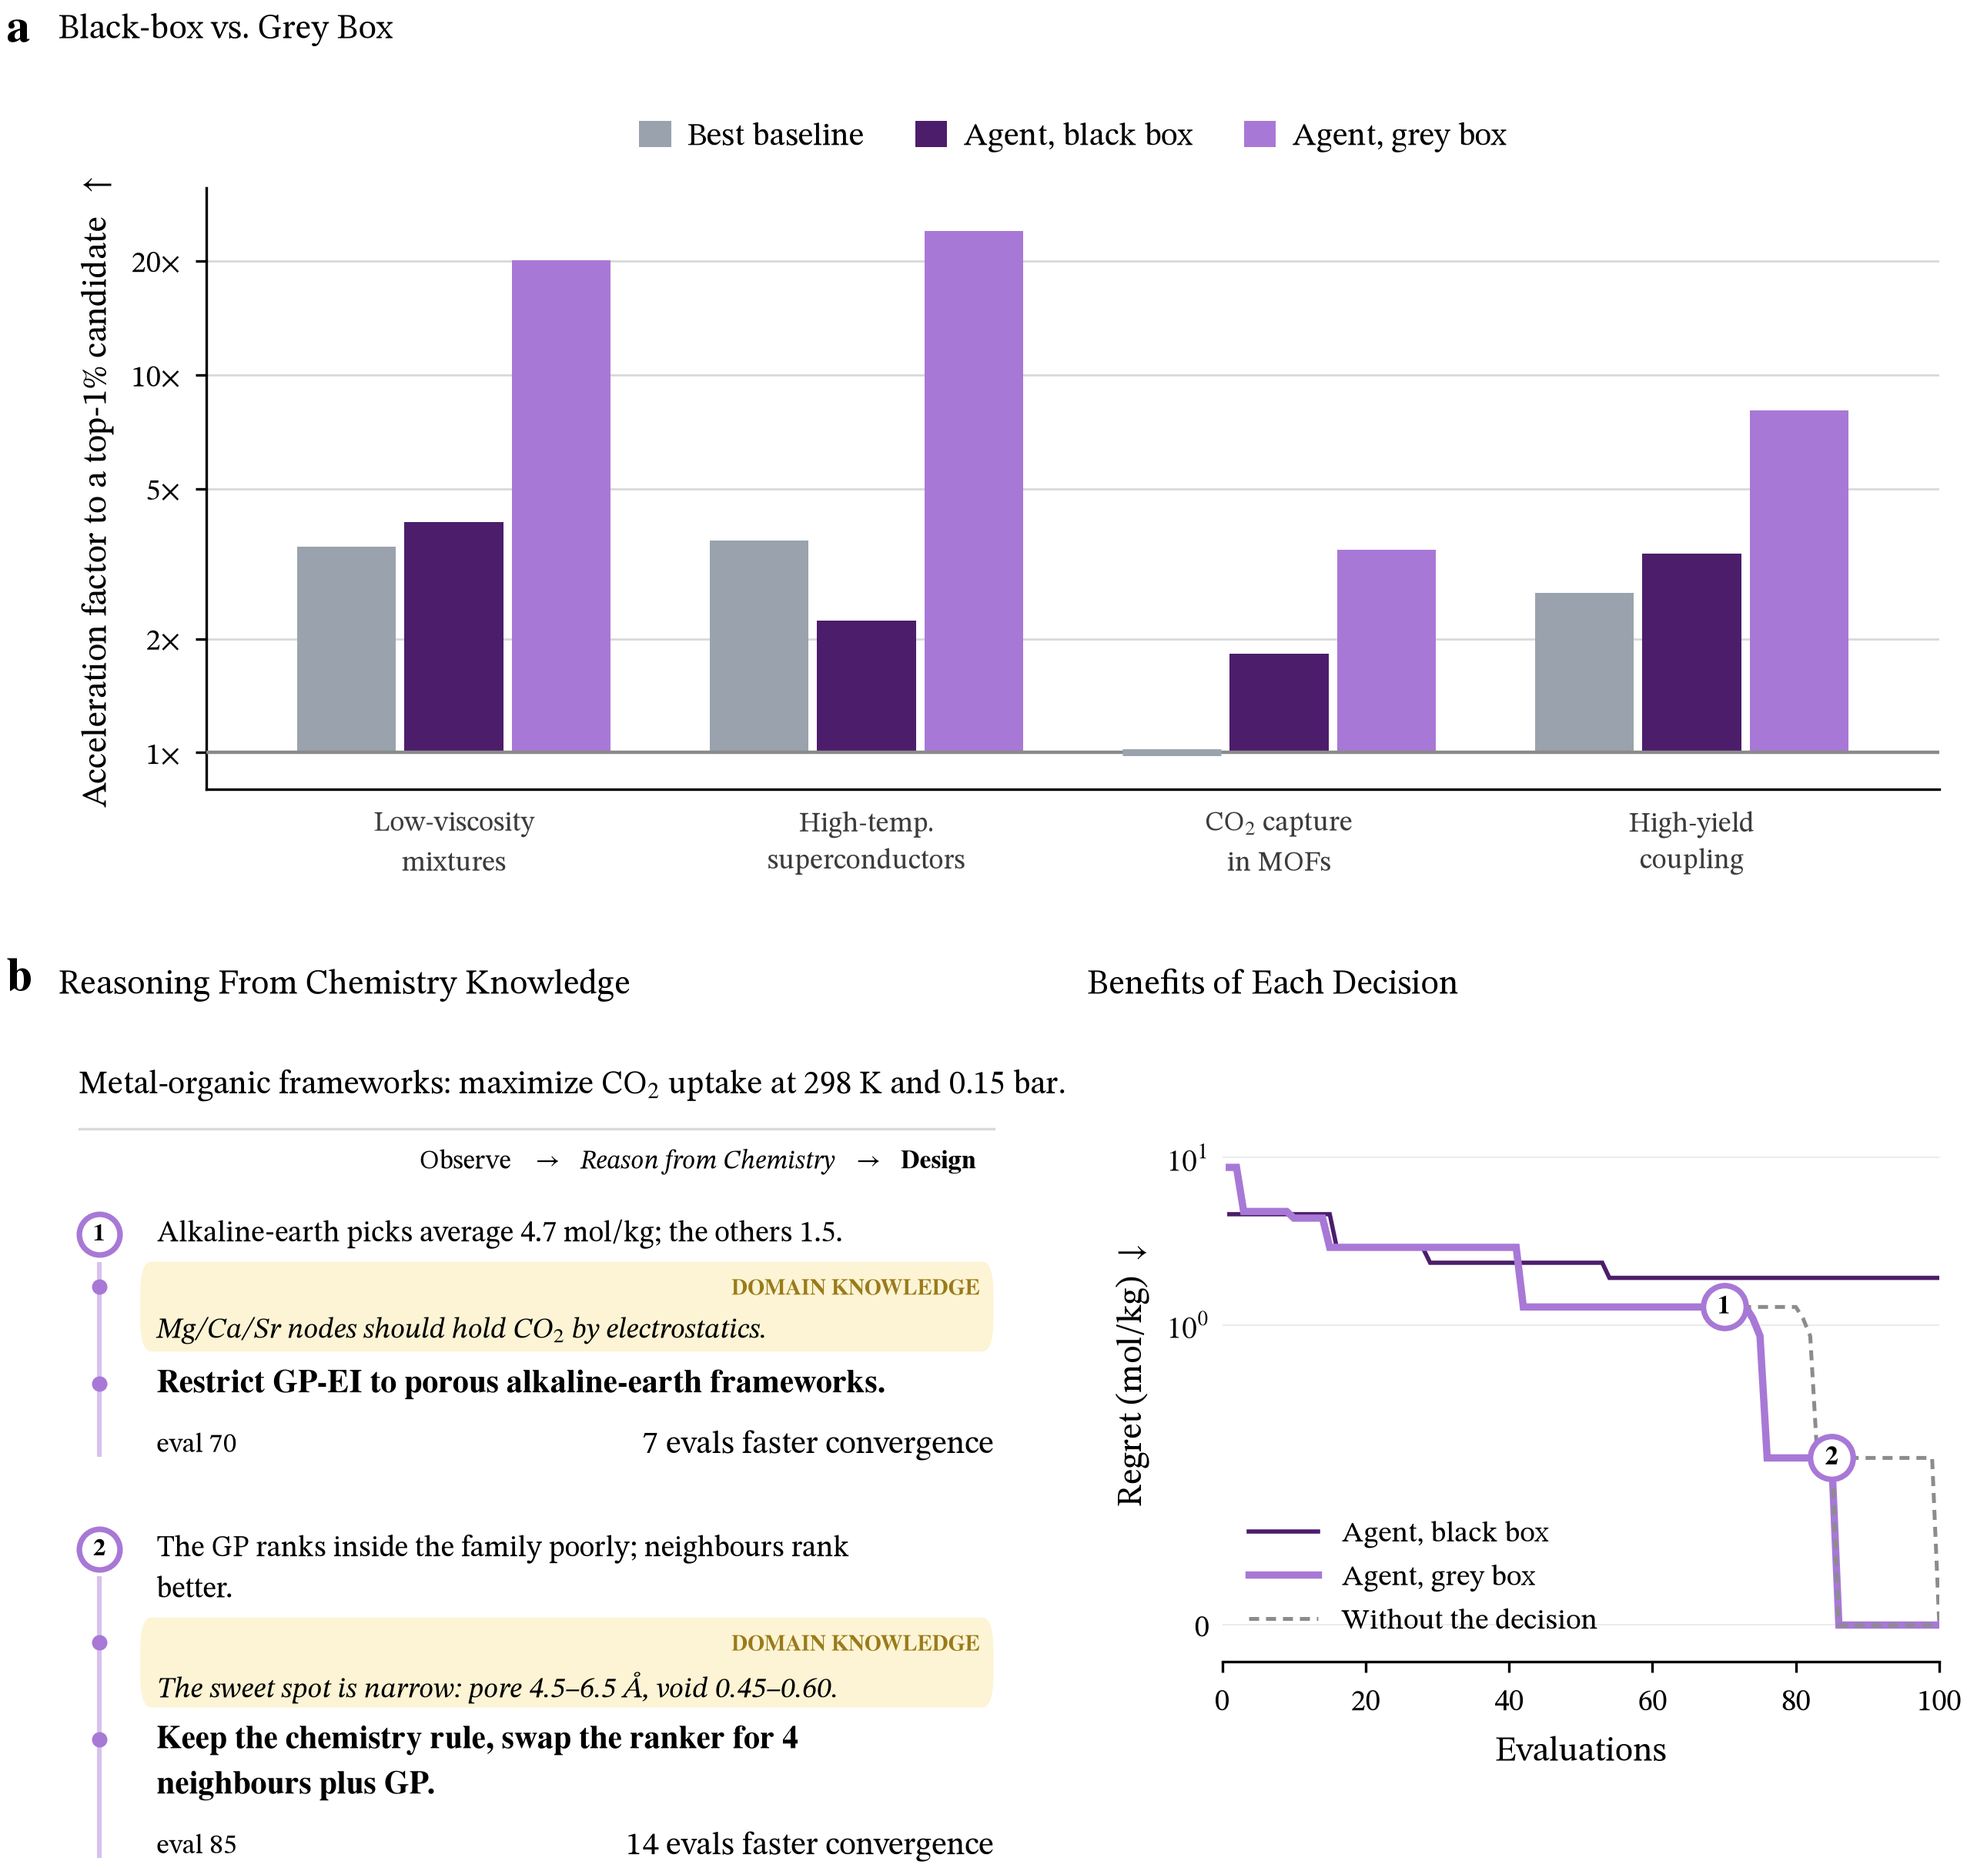
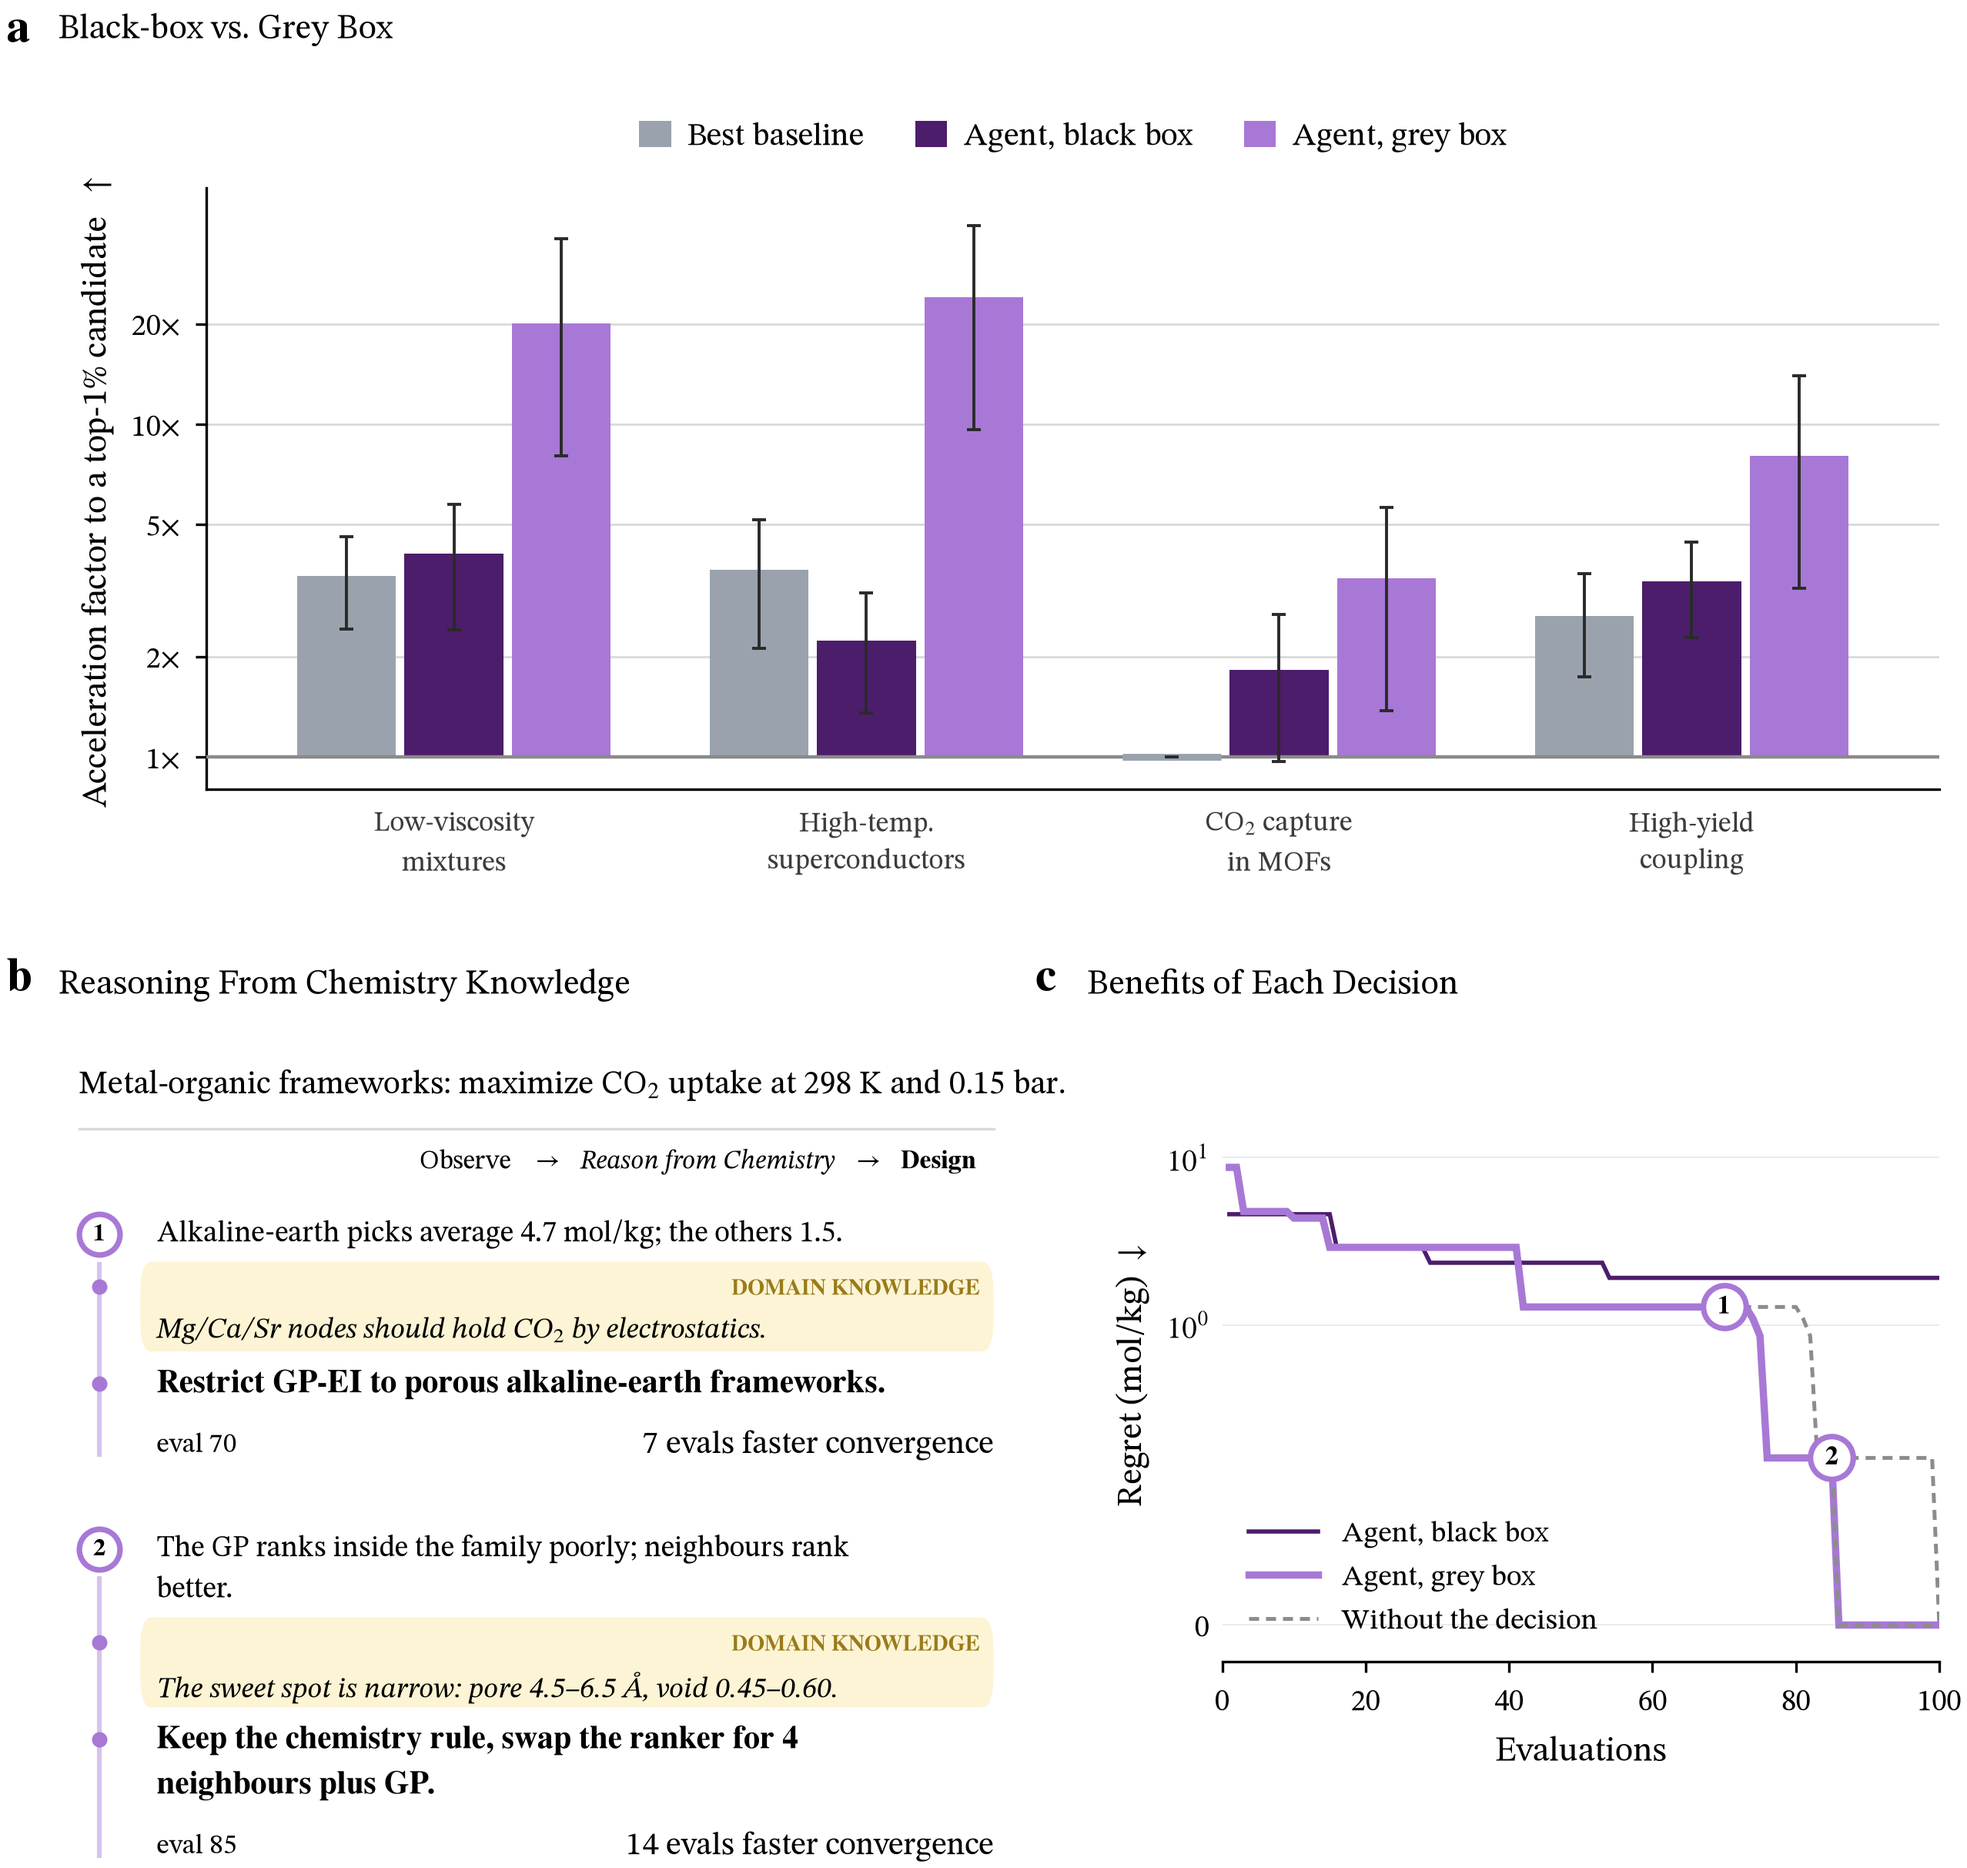
Figure 4: SE error bars on panel A, panel c letter, y axis fits the bars

diff --git a/benchmark/src/aobench/fig4a.py b/benchmark/src/aobench/fig4a.py
@@ -98,6 +98,10 @@ def runs(results: Path, task: str, methods: list[str]) -> dict[str, list[list[tu
     return out
 
 
+ERR: dict = {}  # (task, arm) -> standard error of the acceleration factor
+NSEEDS: dict = {}  # task -> arm -> number of seeds behind each mean
+
+
 def collect(results: Path, pool: Path):
     """task -> arm -> acceleration factor over random search, and the raw evaluation counts."""
     data, raw = {}, {}
@@ -112,18 +116,28 @@ def collect(results: Path, pool: Path):
         def evals(c):  # a run that never gets there is capped at the budget, so the factor
             return next((e for e, v in c if reached(v)), budget)  # understates rather than breaks
 
-        row = {}
+        row, se = {}, {}
         for arm, by_method in groups.items():
-            per_method = {m: statistics.mean(evals(c) for c in cs) for m, cs in by_method.items()}
+            per = {m: [evals(c) for c in cs] for m, cs in by_method.items()}
             # the baseline arm is the best classical optimizer on this task; the others are one
             # method each, so the min is just that method.
-            row[arm] = min(per_method.values())
+            best = min(per.values(), key=statistics.mean)
+            row[arm] = statistics.mean(best)
+            se[arm] = (statistics.stdev(best) / len(best) ** 0.5 if len(best) > 1 else 0.0,
+                       len(best))
         raw[task] = row
         acc = {a: row["random"] / row[a] for a in ARMS}
         # If the best classical optimizer is slower than random search on a pool, nobody would
         # run it -- random search is the baseline there -- so the baseline arm floors at 1x.
         acc["baseline"] = max(acc["baseline"], 1.0)
         data[task] = acc
+        # Standard error of the ratio random/method, by the delta method: the two means come
+        # from independent runs, so their relative errors add in quadrature. A baseline that
+        # was floored to 1x has no error bar, since the floor is a convention, not a measurement.
+        for a in ARMS:
+            rel = ((se["random"][0] / row["random"]) ** 2 + (se[a][0] / row[a]) ** 2) ** 0.5
+            ERR[(task, a)] = 0.0 if (a == "baseline" and acc[a] == 1.0) else acc[a] * rel
+        NSEEDS[task] = {a: se[a][1] for a in (*ARMS, "random")}
     return data, raw
 
 
@@ -139,7 +153,7 @@ def bars(ax, data):
 
     w = 0.26  # three of these span 0.78 of the 1.0 slot: a clear gap between groups
     lo = min(v for row in data.values() for v in row.values())
-    hi = max(v for row in data.values() for v in row.values())
+    hi = max(v + ERR.get((t, a), 0.0) for t, row in data.items() for a, v in row.items())
     for i, a in enumerate(keys):
         xs = [t + (i - 1) * w for t in range(len(tasks))]
         vs = [data[t][a] for t in tasks]
@@ -149,6 +163,10 @@ def bars(ax, data):
                label=ARMS[a][0], zorder=2, linewidth=0)
         # A bar at exactly 1x has no height; a stub keeps its slot from reading as a method
         # that was never run.
+        err = [ERR.get((t, a), 0.0) for t in tasks]
+        ax.errorbar(xs, vs, yerr=[[min(e, v * 0.6) for e, v in zip(err, vs)], err],
+                    fmt="none", ecolor="#2A2A2A", elinewidth=0.7, capsize=1.6, capthick=0.7,
+                    zorder=5)
         flat = [x for x, v in zip(xs, vs) if v <= 1.0]
         ax.hlines([1.0] * len(flat), [x - w * 0.46 for x in flat], [x + w * 0.46 for x in flat],
                   color=ARMS[a][1], lw=1.6, zorder=4)

diff --git a/benchmark/src/aobench/fig4bc.py b/benchmark/src/aobench/fig4bc.py
@@ -179,7 +179,9 @@ def row(fig, letter, cfg, data, y0, h, branch=None):
     top = y0 + h - 0.012
     fig.text(0.0, top, letter, fontsize=11, va="top", ha="left", **BOLD)
     fig.text(0.025, top - 0.007, cfg["title"], fontsize=8, va="top", ha="left", color=INK)
-    fig.text(ax_r.get_position().x0 - 0.065, top - 0.007, "Benefits of Each Decision",
+    cx = ax_r.get_position().x0 - 0.09
+    fig.text(cx, top, "c", fontsize=11, va="top", ha="left", **BOLD)
+    fig.text(cx + 0.025, top - 0.007, "Benefits of Each Decision",
              fontsize=8, va="top", ha="left", color=INK)
     return ax_l, ax_r
 
